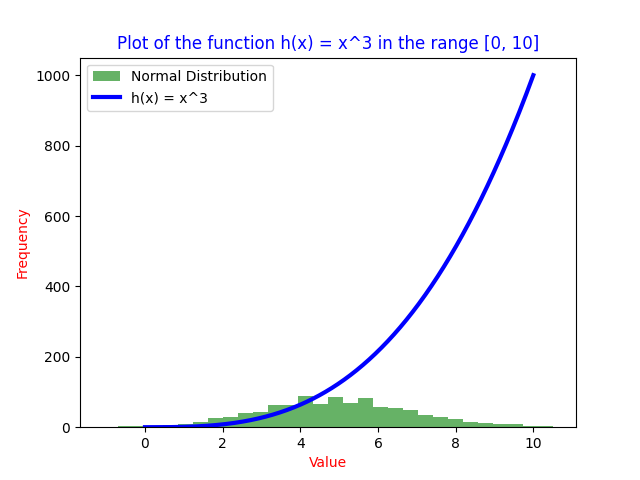
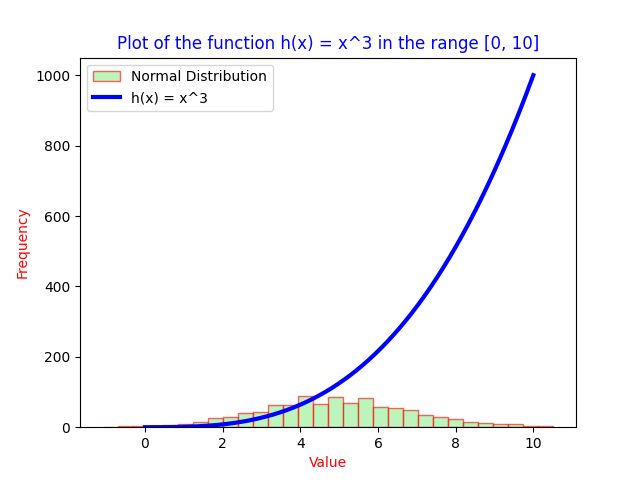
up

Changed region(s): [[0.2812, 0.8125, 0.8438, 0.9062], [0.125, 0.125, 0.1875, 0.1875], [0.1875, 0.875, 0.2188, 0.9062]]

diff --git a/plottask.py b/plottask.py
@@ -15,7 +15,7 @@ np.random.seed(0)
 values = np.random.normal(mean, std_dev, num_values)
 
 # Plotting the histogram
-plt.hist(values, bins=30, alpha=0.6, color='g', label="Normal Distribution")
+plt.hist(values, bins=30, alpha=0.6, color='lightgreen', edgecolor='red', label="Normal Distribution")
 
 # Plotting the cubic function h(x) = x^3
 x = np.linspace(0, 10, 500)
